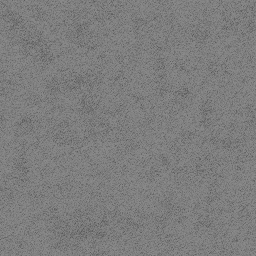
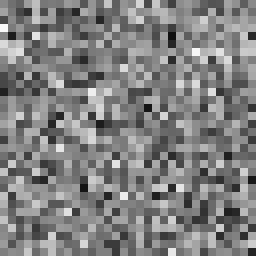
introduced block textures based on a single greyscale texture and gradient overlays

diff --git a/src/main/java/blocks/Chunk.java b/src/main/java/blocks/Chunk.java
@@ -1,13 +1,11 @@
 package blocks;
 
-import com.jme3.asset.AssetManager;
-import com.jme3.asset.TextureKey;
-import com.jme3.material.Material;
-import com.jme3.material.RenderState;
-import com.jme3.math.*;
+import com.jme3.math.FastMath;
+import com.jme3.math.Quaternion;
+import com.jme3.math.Vector2f;
+import com.jme3.math.Vector3f;
 import com.jme3.renderer.queue.RenderQueue;
 import com.jme3.scene.*;
-import com.jme3.texture.Texture;
 import com.jme3.util.BufferUtils;
 import com.simsilica.mathd.Vec3i;
 import lombok.EqualsAndHashCode;
@@ -51,13 +49,13 @@ public class Chunk {
   };
   private final ChunkGrid chunkGrid;
 
-  private final AssetManager assetManager;
+  private final BlockMaterial blockMaterial;
 
   public Chunk(
       @NonNull Vec3i location,
       @NonNull Vec3i size,
       @NonNull Block[][][] blocks,
-      @NonNull AssetManager assetManager,
+      @NonNull BlockMaterial blockMaterial,
       @NonNull ChunkGrid chunkGrid) {
     if (size.x < 1 || size.y < 1 || size.z < 1)
       throw new IllegalArgumentException("all size values must be > 0 but got " + size);
@@ -71,7 +69,7 @@ public class Chunk {
 
     this.size = size;
     this.blocks = blocks;
-    this.assetManager = assetManager;
+    this.blockMaterial = blockMaterial;
   }
 
   public boolean isNodeCalculationDone() {
@@ -83,7 +81,7 @@ public class Chunk {
       node = new Node();
       node.setLocalTranslation(
           this.location.x * size.x, this.location.y * size.y, this.location.z * size.z);
-      if (node.getChildren().isEmpty()) initNode(assetManager);
+      if (node.getChildren().isEmpty()) initNode();
     }
 
     return node;
@@ -130,7 +128,7 @@ public class Chunk {
     }
   }
 
-  private void initNode(AssetManager assetManager) {
+  private void initNode() {
     Map<Block, MeshData> blockToMeshData = new HashMap<>();
     Vec3i inMeshSize = new Vec3i();
     Vec3i blockLocation = new Vec3i();
@@ -167,8 +165,7 @@ public class Chunk {
               entry.getValue().vertices,
               entry.getValue().textureCoordinates,
               entry.getValue().indexes,
-              entry.getValue().normals,
-              assetManager);
+              entry.getValue().normals);
       this.node.attachChild(mesh);
     }
   }
@@ -268,8 +265,7 @@ public class Chunk {
       List<Vector3f> vertices,
       List<Vector2f> textureCoordinates,
       List<Integer> indexes,
-      List<Float> normals,
-      AssetManager assetManager) {
+      List<Float> normals) {
     Mesh mesh = new Mesh();
 
     Vector3f[] verticesArray = vertices.toArray(Vector3f[]::new);
@@ -287,25 +283,10 @@ public class Chunk {
 
     String name = MessageFormat.format("block={0} location={1} size={2}", block, location, size);
     Geometry geometry = new Geometry(name, mesh);
-
-    Material material;
-
-    if (block.type() == BlockType.WATER) {
-      material = new Material(assetManager, "Water.j3md");
-    } else {
-      material = new Material(assetManager, "BlockLighting.j3md");
-      Texture texture = assetManager.loadTexture(new TextureKey("tile.png", true));
-      material.setTexture("DiffuseMap", texture);
-      material.setColor("Overlay", block.color());
-    }
-
+    geometry.setMaterial(blockMaterial.forBlock(block));
     if (block.isTransparent()) {
-      material.setTransparent(true);
-      material.getAdditionalRenderState().setBlendMode(RenderState.BlendMode.Alpha);
       geometry.setQueueBucket(RenderQueue.Bucket.Transparent);
     }
-
-    geometry.setMaterial(material);
 
     return geometry;
   }

diff --git a/src/main/java/blocks/BlockMaterial.java b/src/main/java/blocks/BlockMaterial.java
@@ -1,0 +1,83 @@
+package blocks;
+
+import com.jme3.asset.AssetManager;
+import com.jme3.asset.TextureKey;
+import com.jme3.material.Material;
+import com.jme3.material.RenderState;
+import com.jme3.math.ColorRGBA;
+import com.jme3.math.Vector4f;
+import com.jme3.shader.VarType;
+import com.jme3.texture.Texture;
+
+import java.util.HashMap;
+import java.util.Map;
+
+public class BlockMaterial {
+  private static ColorRGBA hexColor(String hexCode) {
+    return hexColor(hexCode, 1);
+  }
+
+  private static ColorRGBA hexColor(String hexCode, float alpha) {
+    return new ColorRGBA()
+        .setAsSrgb(
+            Integer.valueOf(hexCode.substring(0, 2), 16) / 255f,
+            Integer.valueOf(hexCode.substring(2, 4), 16) / 255f,
+            Integer.valueOf(hexCode.substring(4, 6), 16) / 255f,
+            alpha);
+  }
+
+  private final Map<BlockType, Material> materials;
+
+  public BlockMaterial(AssetManager assetManager) {
+    BlockType[] blockTypes = BlockType.values();
+    materials = new HashMap<>(blockTypes.length, 1f);
+
+    for (BlockType blockType : blockTypes) {
+      Material material = new Material(assetManager, "BlockLighting.j3md");
+      Texture texture = assetManager.loadTexture(new TextureKey("tile.png", true));
+      material.setTexture("DiffuseMap", texture);
+
+      Vector4f[] gradient =
+          switch (blockType) {
+            case DIRT -> new Vector4f[] {
+              hexColor("503926").toVector4f(), hexColor("6F4E37").toVector4f()
+            };
+            case GRASS -> new Vector4f[] {
+              hexColor("125F2F").toVector4f(), hexColor("219149").toVector4f()
+            };
+            case LEAF -> new Vector4f[] {
+              hexColor("006409", 0.95f).toVector4f(), hexColor("005909", 0.95f).toVector4f(),
+              hexColor("005109", 0.95f).toVector4f(), hexColor("004607", 0.95f).toVector4f(),
+              hexColor("003516", 1f).toVector4f(),
+            };
+            case ROCK -> new Vector4f[] {
+              hexColor("514C49").toVector4f(),
+              hexColor("777370").toVector4f(),
+              hexColor("6A5C53").toVector4f()
+            };
+            case WATER -> new Vector4f[] {
+              hexColor("0E0085", 0.8f).toVector4f(), hexColor("1E339A", 0.8f).toVector4f()
+            };
+            case WOOD -> new Vector4f[] {
+              hexColor("503926").toVector4f(), hexColor("64412A").toVector4f(),
+              hexColor("59311D").toVector4f(), hexColor("602D1C").toVector4f(),
+              hexColor("60281B").toVector4f(),
+            };
+          };
+
+      material.setParam("OverlayGradient", VarType.Vector4Array, gradient);
+      material.setInt("OverlayGradientSteps", gradient.length);
+
+      if (gradient[0].w < 1f) {
+        material.setTransparent(true);
+        material.getAdditionalRenderState().setBlendMode(RenderState.BlendMode.Alpha);
+      }
+
+      materials.put(blockType, material);
+    }
+  }
+
+  public Material forBlock(Block block) {
+    return materials.get(block.type());
+  }
+}

diff --git a/src/main/java/blocks/ChunkGrid.java b/src/main/java/blocks/ChunkGrid.java
@@ -2,7 +2,6 @@ package blocks;
 
 import com.github.benmanes.caffeine.cache.Caffeine;
 import com.github.benmanes.caffeine.cache.LoadingCache;
-import com.jme3.asset.AssetManager;
 import com.jme3.math.Vector3f;
 import com.jme3.scene.Node;
 import com.jme3.scene.Spatial;
@@ -14,36 +13,6 @@ import lombok.extern.slf4j.Slf4j;
 import java.util.concurrent.*;
 import java.util.function.Function;
 
-/**
- * The chunk grid contains chunks and their nodes centered around a central point. The outer layer
- * is only used for caching chunk but doesn't contain their nodes.<code>
- *
- *      grid
- *  4 - - - - -
- *  3 - N N N -
- *  2 - N N N -
- *  1 - N N N -
- *  0 - - - - -
- *    0 1 2 3 4
- *
- * </code> In the example grid above 'N' denotes a stored chunk with node, while '-' denotes an
- * empty cell.
- *
- * <p>The grid contents don't get rearranged completely when its center changes. Only its origin
- * (gridOffsetX and gridOffsetY) shifts and chunks no longer needed are replaced by the new ones.
- * <code>
- *
- *     grid
- * 4 - - N N N
- * 3 - c c c -
- * 2 - c c c c
- * 1 - c N N N
- * 0 - c N N N
- *   0 1 2 3 4
- *
- * </code> In the example grid above the origin has shifted from (0, 0) to (2, 3). 'c' denotes a
- * cached chunk.
- */
 @Slf4j
 public class ChunkGrid {
 
@@ -55,7 +24,7 @@ public class ChunkGrid {
   private final ExecutorService chunkMeshGenerationExecutorService;
   private final ExecutorService chunkBlockGenerationExecutorService;
   private final Function<Vec3i, Block[][][]> createChunkBlocks;
-  private final AssetManager assetManager;
+  private final BlockMaterial blockMaterial;
 
   private int gridOffsetX;
   private int gridOffsetZ;
@@ -74,14 +43,14 @@ public class ChunkGrid {
       @NonNull Vector3f centerWorldLocation,
       ExecutorService chunkBlockGenerationExecutorService,
       ExecutorService chunkMeshGenerationExecutorService,
-      @NonNull AssetManager assetManager,
+      @NonNull BlockMaterial blockMaterial,
       @NonNull Function<Vec3i, Block[][][]> createChunkBlocks) {
     this.gridSize = gridSize;
     this.chunkSize = chunkSize;
     this.createChunkBlocks = createChunkBlocks;
     this.chunkBlockGenerationExecutorService = chunkBlockGenerationExecutorService;
     this.chunkMeshGenerationExecutorService = chunkMeshGenerationExecutorService;
-    this.assetManager = assetManager;
+    this.blockMaterial = blockMaterial;
 
     firstGridChunkLocation = calculateFirstGridChunkLocation(centerWorldLocation);
     node = new Node();
@@ -98,7 +67,7 @@ public class ChunkGrid {
                         chunkLocation,
                         chunkSize,
                         generateChunkBlocks(chunkLocation),
-                        assetManager,
+                        blockMaterial,
                         this));
 
     initGrid();

diff --git a/src/main/java/blocks/App.java b/src/main/java/blocks/App.java
@@ -19,7 +19,6 @@ import java.util.concurrent.ExecutorService;
 import java.util.concurrent.Executors;
 import java.util.concurrent.ThreadFactory;
 import java.util.concurrent.atomic.AtomicInteger;
-import java.util.stream.IntStream;
 
 @Slf4j
 public class App extends SimpleApplication {
@@ -157,7 +156,7 @@ public class App extends SimpleApplication {
             cam.getLocation(),
             chunkBlockGenerationExecutorService,
             chunkMeshGenerationExecutorService,
-            assetManager,
+            new BlockMaterial(assetManager),
             this::createBlocks);
     rootNode.attachChild(chunkGrid.getNode());
   }
@@ -195,7 +194,7 @@ public class App extends SimpleApplication {
 
   private static final Block[] dirtBlocks = createTemperaturedBlocks(BlockType.DIRT);
   private static final Block[] rockBlocks = createTemperaturedBlocks(BlockType.ROCK);
-  private static final Block waterBlock = new Block(BlockType.WATER, BlockType.WATER.color, true);
+  private static final Block[] waterBlocks = createTemperaturedBlocks(BlockType.WATER);
   private static final Block[] woodBlocks = createTemperaturedBlocks(BlockType.WOOD);
   private static final Block[] leafBlocks = createTemperaturedBlocks(BlockType.LEAF);
   private static final Block[] grassBlocks = createTemperaturedBlocks(BlockType.GRASS);
@@ -229,7 +228,8 @@ public class App extends SimpleApplication {
         if (terrain.terrainType() == TerrainType.OCEAN) {
           int scaledLandLevelHeight = (int) ((TerrainGenerator.LAND_LEVEL + 1) / 2 * WORLD_HEIGHT);
           int y = scaledLandLevelHeight - (location.y * CHUNK_HEIGHT);
-          if (y >= 0 && y < CHUNK_HEIGHT) blocks[x][y][z] = waterBlock;
+          if (y >= 0 && y < CHUNK_HEIGHT)
+            blocks[x][y][z] = waterBlocks[terrain.temperature().ordinal()];
         }
 
         if (terrain.flora().isPresent()) {

diff --git a/src/main/java/blocks/BlockType.java b/src/main/java/blocks/BlockType.java
@@ -7,7 +7,7 @@ public enum BlockType {
   GRASS(ColorRGBA.Green),
   LEAF(ColorRGBA.Green.clone().mult(0.7f)),
   ROCK(ColorRGBA.DarkGray),
-  WATER(ColorRGBA.Blue.clone().setAlpha(0.8f)),
+  WATER(new ColorRGBA(0, 0.1f, 1, 0.9f)),
   WOOD(ColorRGBA.Brown);
 
   public final ColorRGBA color;
